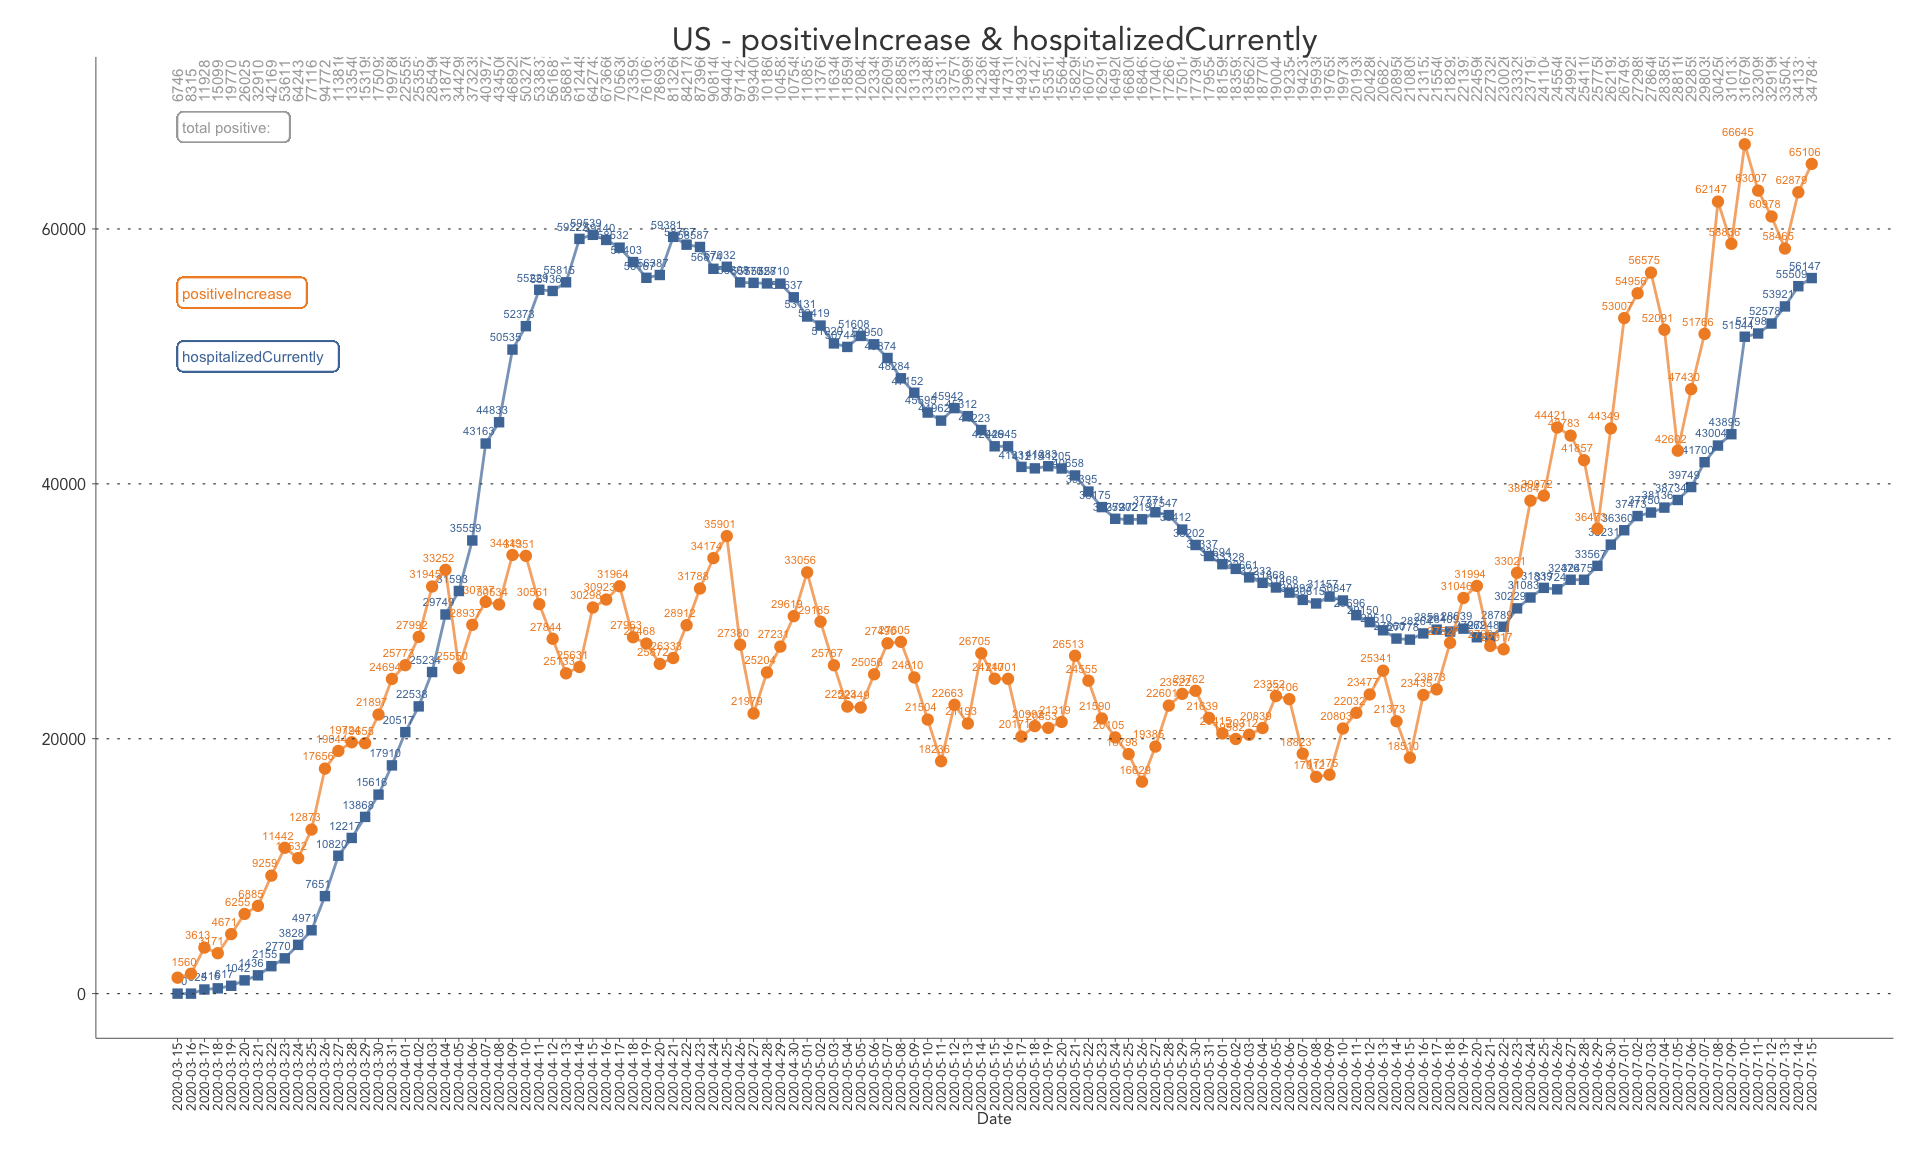
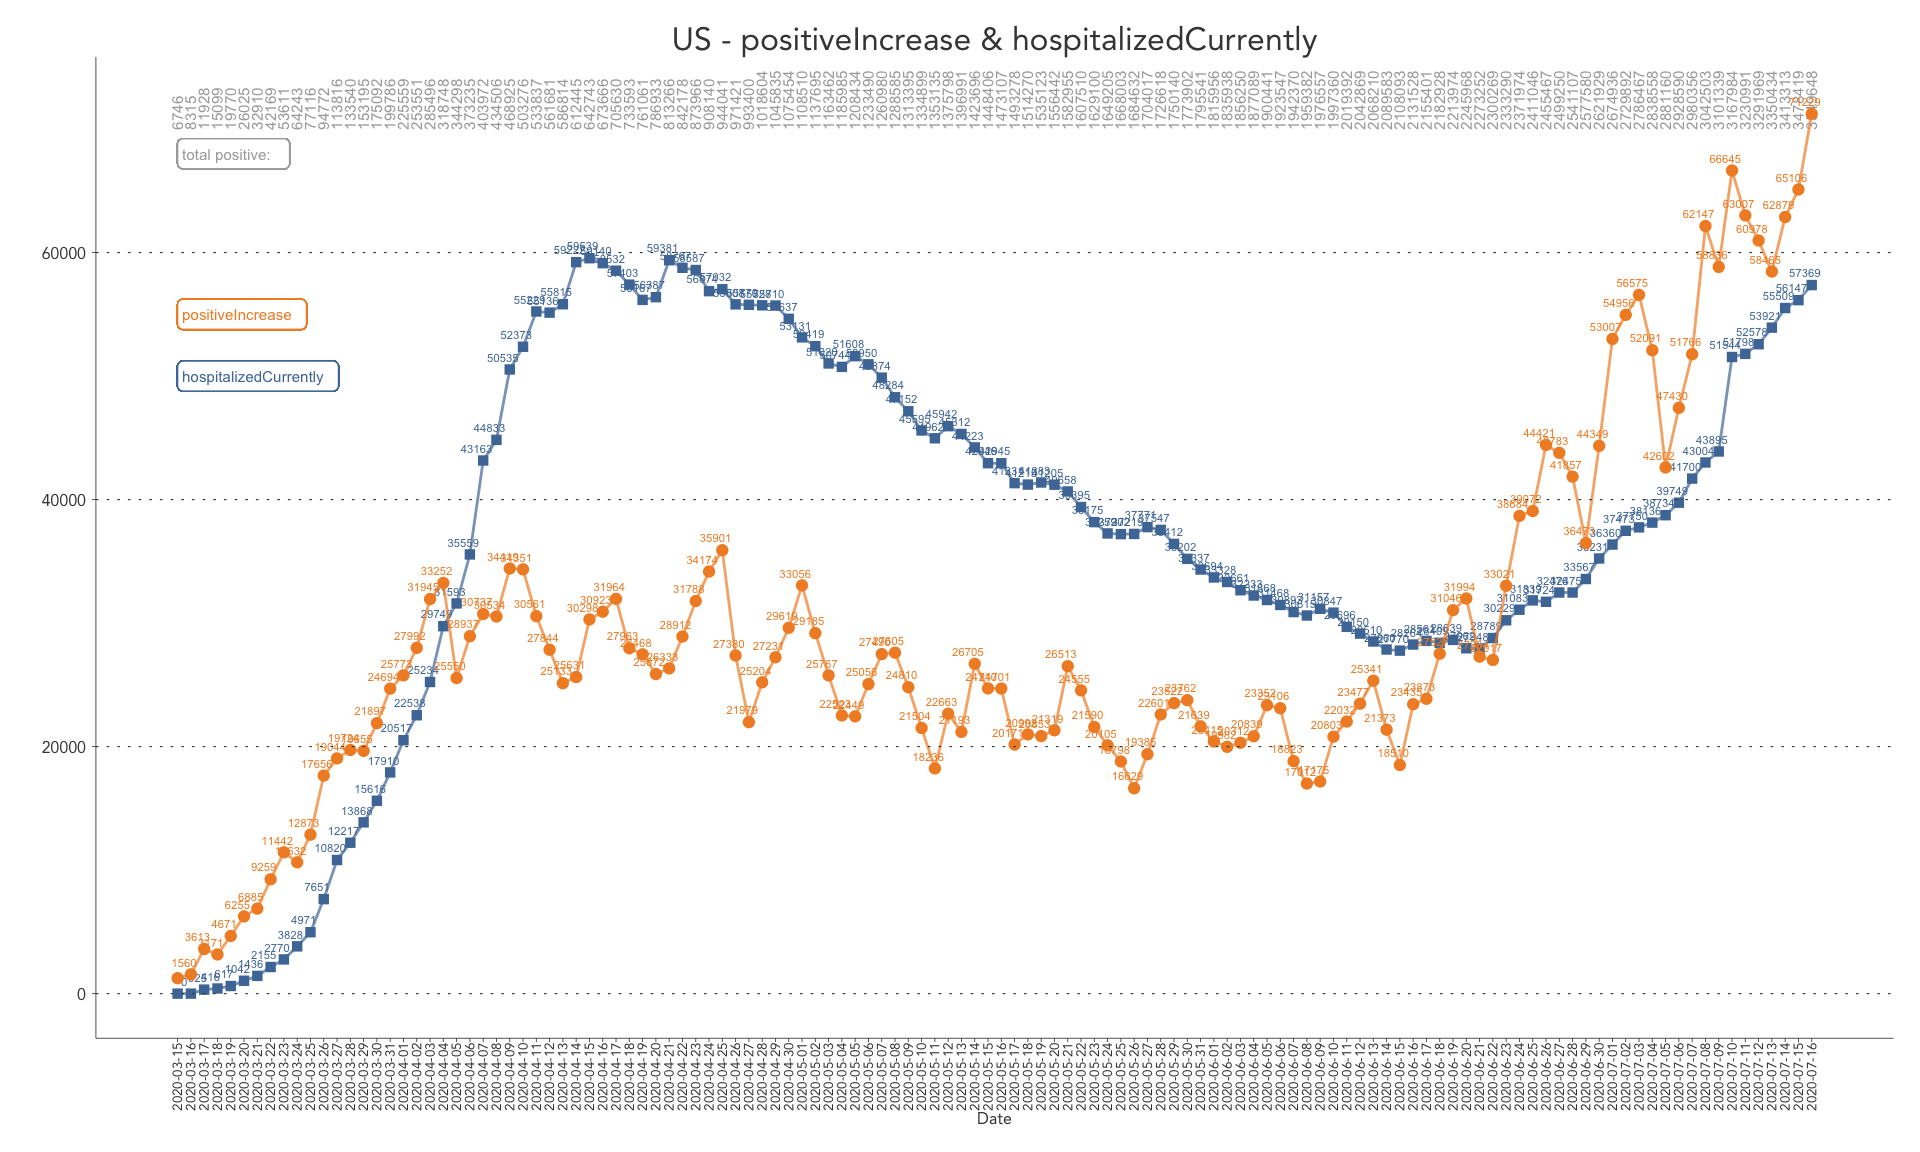
0716 up

diff --git a/covid19-vis.html b/covid19-vis.html
@@ -311,16 +311,16 @@ population
 <tbody>
 <tr>
 <td style="text-align:left;">
-2020-07-15
+2020-07-16
 </td>
 <td style="text-align:left;">
 AK
 </td>
 <td style="text-align:right;">
-1631
+2032
 </td>
 <td style="text-align:right;">
-154462
+160990
 </td>
 <td style="text-align:right;">
 0
@@ -344,19 +344,19 @@ AK
 0
 </td>
 <td style="text-align:right;">
-669
+688
 </td>
 <td style="text-align:left;">
 A
 </td>
 <td style="text-align:left;">
-7/15/2020 00:00
+7/16/2020 00:00
 </td>
 <td style="text-align:left;">
-2020-07-15T00:00:00Z
+2020-07-16T00:00:00Z
 </td>
 <td style="text-align:left;">
-07/14 20:00
+07/15 20:00
 </td>
 <td style="text-align:right;">
 17
@@ -365,10 +365,10 @@ A
 0
 </td>
 <td style="text-align:left;">
-2020-07-15T00:00:00Z
+2020-07-16T00:00:00Z
 </td>
 <td style="text-align:right;">
-156093
+163022
 </td>
 <td style="text-align:right;">
 0
@@ -389,22 +389,22 @@ A
 2
 </td>
 <td style="text-align:right;">
-52
+401
 </td>
 <td style="text-align:right;">
-6568
+6528
 </td>
 <td style="text-align:right;">
-156093
+163022
 </td>
 <td style="text-align:right;">
-156093
+163022
 </td>
 <td style="text-align:right;">
-6620
+6929
 </td>
 <td style="text-align:right;">
-156093
+163022
 </td>
 <td style="text-align:right;">
 0
@@ -413,7 +413,7 @@ A
 0
 </td>
 <td style="text-align:left;">
-94f51a21cc1532dde7387df47013f567fb56d967
+34f789833937d1270ce0cce67d132f6f0b7c76cf
 </td>
 <td style="text-align:right;">
 0
@@ -439,16 +439,16 @@ A
 </tr>
 <tr>
 <td style="text-align:left;">
-2020-07-15
+2020-07-16
 </td>
 <td style="text-align:left;">
 AL
 </td>
 <td style="text-align:right;">
-59067
+61088
 </td>
 <td style="text-align:right;">
-481982
+490021
 </td>
 <td style="text-align:right;">
 0
@@ -457,19 +457,19 @@ AL
 1362
 </td>
 <td style="text-align:right;">
-7291
+7584
 </td>
 <td style="text-align:right;">
 0
 </td>
 <td style="text-align:right;">
-941
+950
 </td>
 <td style="text-align:right;">
 0
 </td>
 <td style="text-align:right;">
-514
+516
 </td>
 <td style="text-align:right;">
 29736
@@ -478,25 +478,25 @@ AL
 B
 </td>
 <td style="text-align:left;">
-7/15/2020 11:00
+7/16/2020 11:00
 </td>
 <td style="text-align:left;">
-2020-07-15T11:00:00Z
+2020-07-16T11:00:00Z
 </td>
 <td style="text-align:left;">
-07/15 07:00
+07/16 07:00
 </td>
 <td style="text-align:right;">
-1211
+1230
 </td>
 <td style="text-align:right;">
-7291
+7584
 </td>
 <td style="text-align:left;">
-2020-07-15T11:00:00Z
+2020-07-16T11:00:00Z
 </td>
 <td style="text-align:right;">
-540207
+550179
 </td>
 <td style="text-align:right;">
 0
@@ -505,43 +505,43 @@ B
 0
 </td>
 <td style="text-align:right;">
-58225
+60158
 </td>
 <td style="text-align:right;">
-1183
+1200
 </td>
 <td style="text-align:right;">
-28
+30
 </td>
 <td style="text-align:right;">
 1
 </td>
 <td style="text-align:right;">
-1812
+2021
 </td>
 <td style="text-align:right;">
-10148
+8039
 </td>
 <td style="text-align:right;">
-541049
+551109
 </td>
 <td style="text-align:right;">
-541049
+551109
 </td>
 <td style="text-align:right;">
-11960
+10060
 </td>
 <td style="text-align:right;">
-541049
+551109
 </td>
 <td style="text-align:right;">
-47
+19
 </td>
 <td style="text-align:right;">
-168
+293
 </td>
 <td style="text-align:left;">
-115a76b81b0c3c59d334b5de8180c2e10899dddc
+25795dc2b33559c81e651edb2ff7ba16567ed9eb
 </td>
 <td style="text-align:right;">
 0
@@ -567,64 +567,64 @@ B
 </tr>
 <tr>
 <td style="text-align:left;">
-2020-07-15
+2020-07-16
 </td>
 <td style="text-align:left;">
 AR
 </td>
 <td style="text-align:right;">
-30297
+31114
 </td>
 <td style="text-align:right;">
-365479
-</td>
-<td style="text-align:right;">
-0
-</td>
-<td style="text-align:right;">
-458
-</td>
-<td style="text-align:right;">
-1948
+369847
 </td>
 <td style="text-align:right;">
 0
 </td>
 <td style="text-align:right;">
+470
+</td>
+<td style="text-align:right;">
+1994
+</td>
+<td style="text-align:right;">
 0
 </td>
 <td style="text-align:right;">
-94
+0
 </td>
 <td style="text-align:right;">
-279
+101
 </td>
 <td style="text-align:right;">
-23523
+286
+</td>
+<td style="text-align:right;">
+24195
 </td>
 <td style="text-align:left;">
 A
 </td>
 <td style="text-align:left;">
-7/15/2020 14:36
+7/16/2020 14:36
 </td>
 <td style="text-align:left;">
-2020-07-15T14:36:00Z
+2020-07-16T14:36:00Z
 </td>
 <td style="text-align:left;">
-07/15 10:36
+07/16 10:36
 </td>
 <td style="text-align:right;">
-335
+341
 </td>
 <td style="text-align:right;">
-1948
+1994
 </td>
 <td style="text-align:left;">
-2020-07-15T14:36:00Z
+2020-07-16T14:36:00Z
 </td>
 <td style="text-align:right;">
-395212
+400144
 </td>
 <td style="text-align:right;">
 0
@@ -633,7 +633,7 @@ A
 0
 </td>
 <td style="text-align:right;">
-30297
+31114
 </td>
 <td style="text-align:right;">
 0
@@ -645,31 +645,31 @@ A
 5
 </td>
 <td style="text-align:right;">
-564
+817
 </td>
 <td style="text-align:right;">
-4913
+4368
 </td>
 <td style="text-align:right;">
-395776
+400961
 </td>
 <td style="text-align:right;">
-395776
+400961
 </td>
 <td style="text-align:right;">
-5477
+5185
 </td>
 <td style="text-align:right;">
-395776
+400961
 </td>
 <td style="text-align:right;">
-4
+6
 </td>
 <td style="text-align:right;">
-76
+46
 </td>
 <td style="text-align:left;">
-ce730ea246418cfcb8291076ec9ebfd46c643bfa
+c5713bae815b01790136611138b743d1ff7fec22
 </td>
 <td style="text-align:right;">
 0
